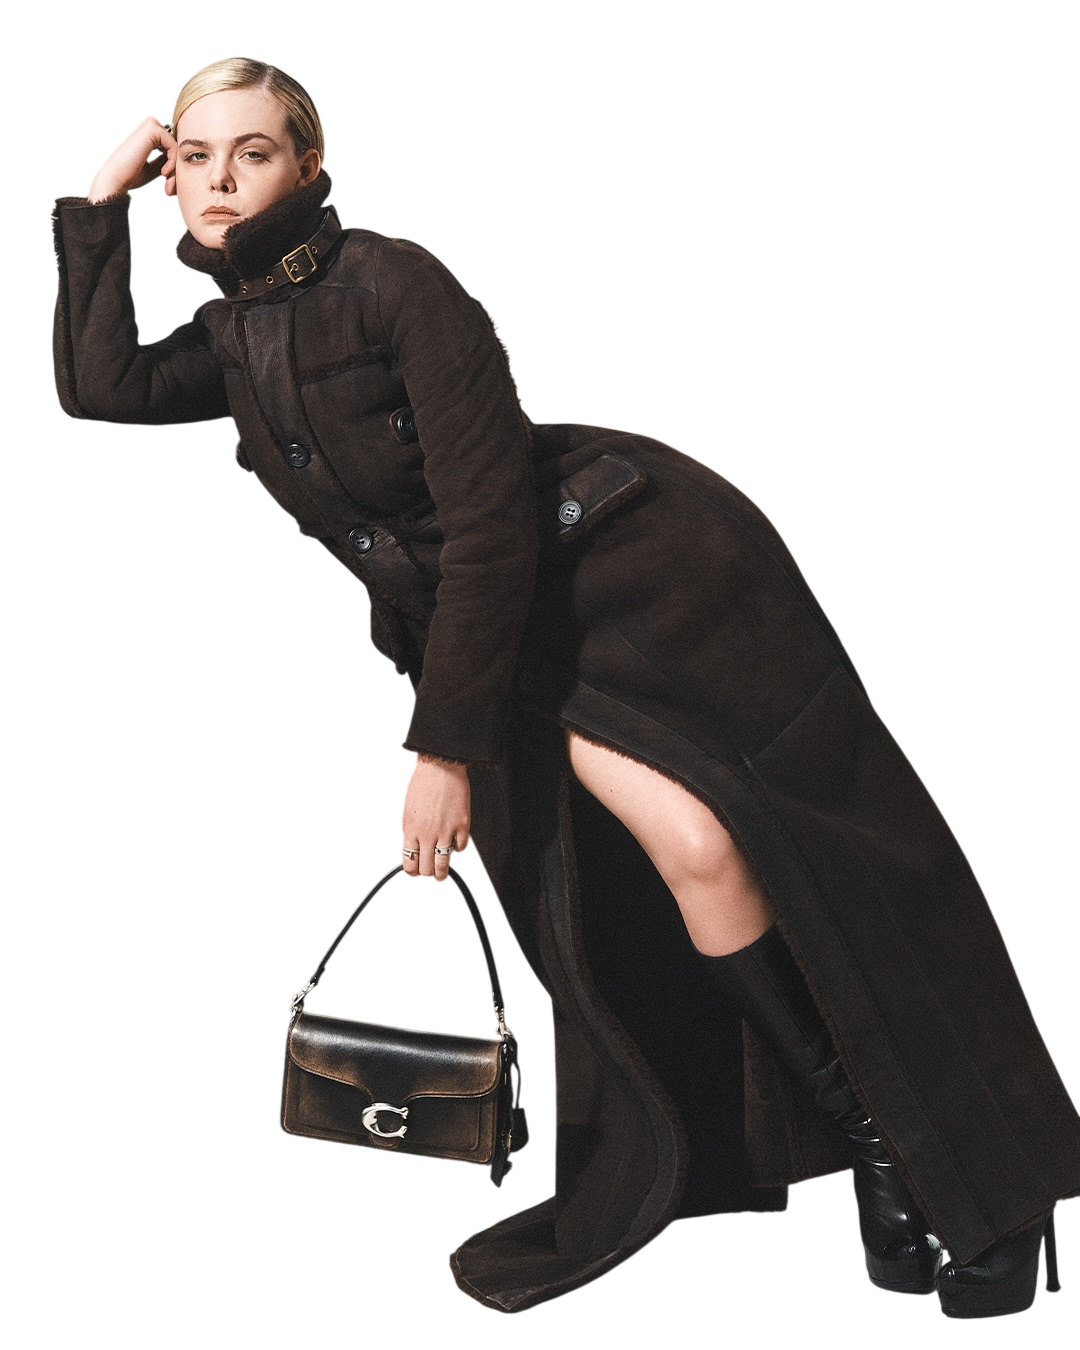
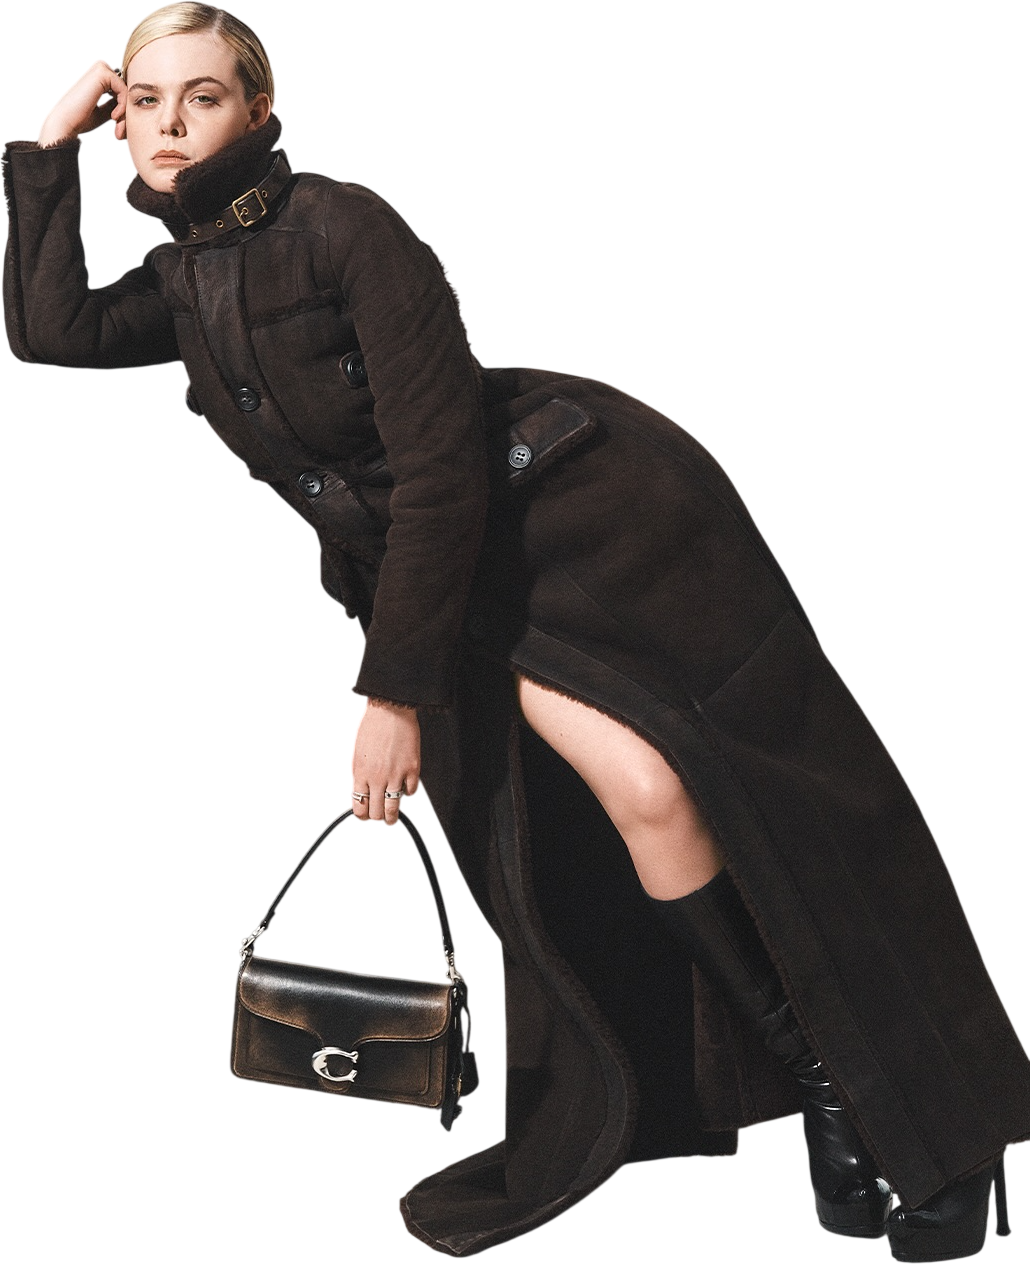
feat: retrato apoiado no nome com revelacao de cor no cursor
Recompoe a hero: ELLE sobre FANNING em duas linhas, retrato grande recortado
no canto direito e a palavra FANNING cruzando o corpo, apoiando ela no final.

Apara o padding transparente do PNG para o recorte encostar nas bordas, o que
mantem o enquadramento exato em qualquer tamanho. Nome e retrato sao dimensionados
em cqw do mesmo container, entao a composicao nao desalinha.

SpotlightPortrait empilha uma copia colorida sobre a base em grayscale e revela
um circulo com clip-path atualizado em requestAnimationFrame.

diff --git a/sections/Hero.tsx b/sections/Hero.tsx
@@ -1,12 +1,8 @@
-import { ImagePlate } from "@/components/content/ImagePlate";
-import { Rule } from "@/components/core/Rule";
+import { SpotlightPortrait } from "@/components/content/SpotlightPortrait";
 import { ScrollCue } from "@/components/core/ScrollCue";
-import { SideLabel } from "@/components/core/SideLabel";
 
-const STATEMENT = `Screen work, characters
-and editorials —
-from the first role
-to what comes next.`;
+const STATEMENT =
+  "Screen work, characters and editorials — from the first role to what comes next.";
 
 export function Hero() {
   return (
@@ -31,35 +27,36 @@ export function Hero() {
         </div>
       </div>
 
-      <div className="grid flex-1 lg:grid-cols-[1.15fr_1fr]">
-        <div className="bleed flex flex-col justify-between gap-7 py-8 lg:py-10">
-          <h1 className="font-display text-poster uppercase text-ink-900">
-            Elle
-            <br />
-            Fanning
-            <span className="ml-[0.06em] inline-block size-[0.16em] bg-yellow-400" />
-          </h1>
-          <div className="max-w-[34ch]">
-            <Rule />
-            <p className="mt-3 whitespace-pre-line font-mono text-body uppercase text-ink-800">
-              {STATEMENT}
-            </p>
-          </div>
-        </div>
+      <div className="frame relative flex flex-1 flex-col justify-end overflow-hidden [container-type:inline-size]">
+        <div
+          aria-hidden
+          className="pointer-events-none absolute right-[6cqw] top-[4cqw] h-[34cqw] w-[26cqw] bg-yellow-400"
+        />
 
-        <div className="flex min-h-[42svh] border-line-rule lg:min-h-0 lg:border-l">
-          <SideLabel tone="accent">01 — Introduction</SideLabel>
-          <ImagePlate
-            fill
-            className="flex-1"
+        <div className="absolute bottom-0 right-[-4cqw] z-0 h-[112cqw] w-[104cqw] lg:top-0 lg:h-auto lg:w-[64cqw]">
+          <SpotlightPortrait
+            src="/images/ellefanning-hero.png"
             alt="Elle Fanning"
-            caption="Elle Fanning"
-            captionRole="Actress · Producer"
-            placeholder={"PORTRAIT\nFULL BLEED · GRAYSCALE"}
-            sizes="(min-width: 1024px) 46vw, 100vw"
+            className="h-full w-full"
+            imageClassName="object-cover object-top"
+            sizes="(min-width: 1024px) 70vw, 110vw"
+            radius={190}
             priority
           />
         </div>
+
+        <h1 className="pointer-events-none relative z-10 pb-[1cqw] font-display text-[26cqw] uppercase leading-[0.86] tracking-poster text-ink-900">
+          Elle
+          <br />
+          Fanning
+          <span className="ml-[0.04em] inline-block size-[0.14em] bg-yellow-400" />
+        </h1>
+      </div>
+
+      <div className="bleed border-t border-line-hairline py-3">
+        <p className="font-mono text-body-sm uppercase text-ink-800">
+          {STATEMENT}
+        </p>
       </div>
 
       <ScrollCue href="#filmography" index="01 / 08" />

diff --git a/components/content/SpotlightPortrait.tsx b/components/content/SpotlightPortrait.tsx
@@ -1,0 +1,94 @@
+"use client";
+
+import Image from "next/image";
+import { useEffect, useRef } from "react";
+import type { PointerEvent } from "react";
+import { cn } from "@/lib/cn";
+
+type SpotlightPortraitProps = {
+  src: string;
+  alt: string;
+  radius?: number;
+  sizes?: string;
+  priority?: boolean;
+  className?: string;
+  imageClassName?: string;
+};
+
+export function SpotlightPortrait({
+  src,
+  alt,
+  radius = 190,
+  sizes = "100vw",
+  priority = false,
+  className,
+  imageClassName = "object-contain object-bottom",
+}: SpotlightPortraitProps) {
+  const lens = useRef<HTMLDivElement>(null);
+  const point = useRef({ x: 0, y: 0 });
+  const ticket = useRef(0);
+
+  useEffect(() => () => cancelAnimationFrame(ticket.current), []);
+
+  function paint() {
+    ticket.current = 0;
+    const { x, y } = point.current;
+    if (lens.current) {
+      lens.current.style.clipPath = `circle(${radius}px at ${x}px ${y}px)`;
+    }
+  }
+
+  function track(event: PointerEvent<HTMLDivElement>) {
+    if (event.pointerType === "touch") return;
+    point.current = {
+      x: event.nativeEvent.offsetX,
+      y: event.nativeEvent.offsetY,
+    };
+    if (!ticket.current) ticket.current = requestAnimationFrame(paint);
+  }
+
+  function open(event: PointerEvent<HTMLDivElement>) {
+    if (event.pointerType === "touch") return;
+    point.current = {
+      x: event.nativeEvent.offsetX,
+      y: event.nativeEvent.offsetY,
+    };
+    paint();
+    lens.current?.style.setProperty("opacity", "1");
+  }
+
+  function close() {
+    lens.current?.style.setProperty("opacity", "0");
+  }
+
+  return (
+    <div
+      onPointerEnter={open}
+      onPointerMove={track}
+      onPointerLeave={close}
+      className={cn("relative", className)}
+    >
+      <Image
+        src={src}
+        alt={alt}
+        fill
+        sizes={sizes}
+        priority={priority}
+        draggable={false}
+        className={cn("img-brand", imageClassName)}
+      />
+
+      <div ref={lens} aria-hidden className="spotlight-lens pointer-events-none">
+        <Image
+          src={src}
+          alt=""
+          fill
+          sizes={sizes}
+          loading="eager"
+          draggable={false}
+          className={imageClassName}
+        />
+      </div>
+    </div>
+  );
+}

diff --git a/styles/globals.css b/styles/globals.css
@@ -129,6 +129,7 @@
 }
 
 @utility frame {
+  width: 100%;
   max-width: var(--container-page);
   margin-inline: auto;
   padding-inline: var(--gutter-page);
@@ -136,6 +137,15 @@
 
 @utility bleed {
   padding-inline: var(--gutter-page);
+}
+
+@utility spotlight-lens {
+  position: absolute;
+  inset: 0;
+  opacity: 0;
+  clip-path: circle(0 at 50% 50%);
+  will-change: clip-path, opacity;
+  transition: opacity var(--duration-base) var(--ease-out);
 }
 
 @utility grain {
